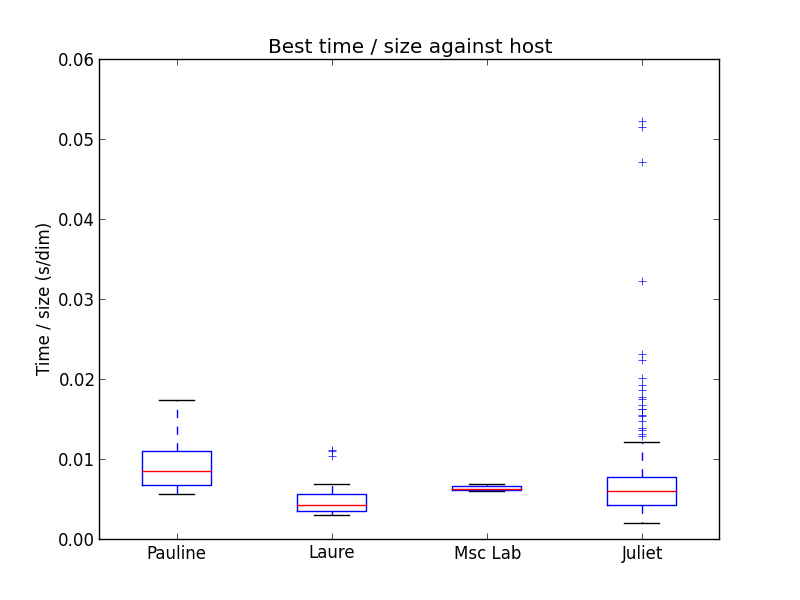
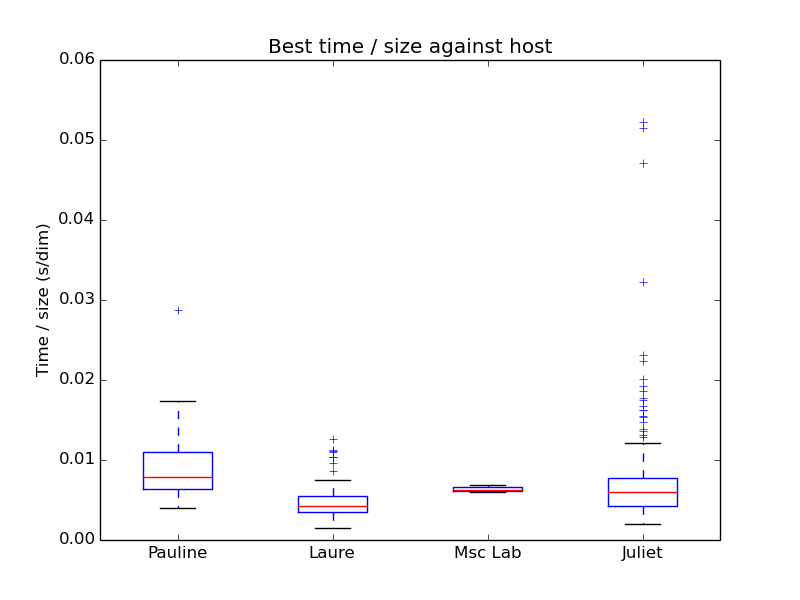
Script now ignores merge conflicts

diff --git a/vk-analysis.py b/vk-analysis.py
@@ -39,8 +39,11 @@ if __name__ == '__main__':
     data = []
     for row in reader(open(logfile, 'r')):
         if (row[4], row[5]) not in log_of_data:
-            data.append(Instance(*row))
-            log_of_data[(row[4], row[5])] = 1
+            try:
+                data.append(Instance(*row))
+                log_of_data[(row[4], row[5])] = 1
+            except:
+                pass
 
     sizes = range(min([row.size for row in data]), max([row.size for row in data]) + 1)
     hosts = list(set([instance.host for instance in data]))
